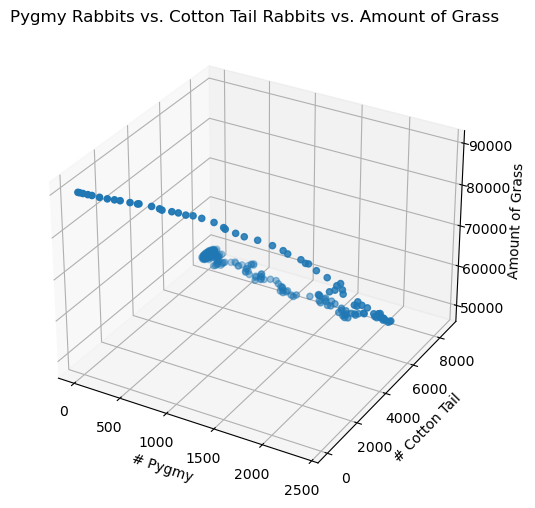
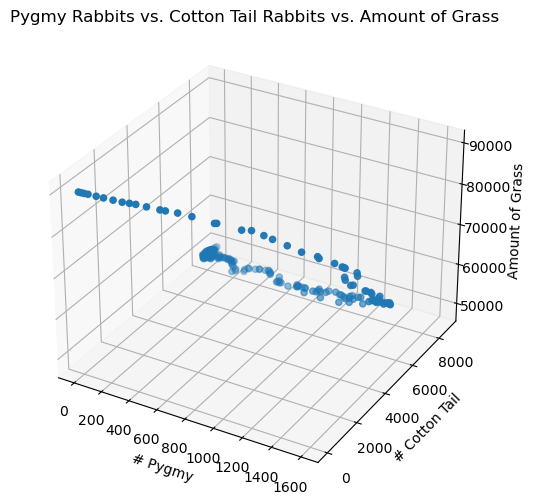
added working color map and user inputted command line arguments

diff --git a/ecological_simulation/rabbit_life_sim.py b/ecological_simulation/rabbit_life_sim.py
@@ -5,17 +5,17 @@ import matplotlib.colors as colors
 import numpy as np
 import copy
 import sys
-from IPython import display
+from argparse import ArgumentParser, ArgumentError
 
 
 # Does the field wrap around on itself when rabbits move?
 WRAP = True
 
 # colors
-WHITE = 0
-GREEN = 1
-BLUE = 2
-RED = 3
+WHITE = 0  # empty space
+GREEN = 1  # grass
+BLUE = 2  # pygmy
+RED = 3  # cottontail
 
 
 class Rabbit:
@@ -47,8 +47,10 @@ class Rabbit:
     def move(self):
         """ Move up, down, left, right randomly """
 
+        # create a list of possible moves in integer set: {-max_hop_distance, ..., max_hop_distance}
         mv_lst = list(range(-self.hop_dist, self.hop_dist + 1))
 
+        # move rabbit
         if WRAP:
             self.x = (self.x + rnd.choice(mv_lst)) % self.size
             self.y = (self.y + rnd.choice(mv_lst)) % self.size
@@ -59,21 +61,21 @@ class Rabbit:
 
 class Pygmy(Rabbit):
 
-    def __init__(self):
-        super().__init__(max_offspring=2)
+    def __init__(self, size=300):
+        super().__init__(max_offspring=2, field_size=size)
 
 
 class CottonTail(Rabbit):
 
-    def __init__(self):
-        super().__init__(max_hop_distance=2, color=RED)
+    def __init__(self, size=300):
+        super().__init__(max_hop_distance=2, color=RED, field_size=size)
 
 
 class Field:
     """ A field is a patch of grass with 0 or more rabbits hopping around
     in search of grass """
 
-    def __init__(self, field_size=300, grass_rate=0.04, num_pygmy=1, num_cotton_tail=1):
+    def __init__(self, field_size=300, grass_rate=0.1, num_pygmy=1, num_cotton_tail=1):
         """ Create a patch of grass with dimensions size x size
         and initially no rabbits """
 
@@ -87,8 +89,9 @@ class Field:
         self.field = np.ones(shape=(self.size, self.size), dtype=int)
 
         # initialize rabbits
-        self.rabbits = [Pygmy() for _ in range(num_pygmy)]
-        self.rabbits += [CottonTail() for _ in range(num_cotton_tail)]
+        self.rabbits = [Pygmy(self.size) for _ in range(num_pygmy)]
+        self.rabbits.extend([CottonTail(self.size)
+                            for _ in range(num_cotton_tail)])
 
         # keep track of number of rabbits per species and amount of grass
         self.npygmy = [num_pygmy]
@@ -96,24 +99,30 @@ class Field:
         self.ngrass = [self.size * self.size]
 
         # create colormap
-        cmap = colors.ListedColormap(["red", "blue", "white", "green"])
-        # cmap = colors.ListedColormap(["white", "green", "blue", "red"])
+        cmap = colors.ListedColormap(["white", "green", "blue", "red"])
 
-        # plot of field to use for animation
-        # plot_field = copy.deepcopy(self.field)
-        # for i in range(len(plot_field)):
-        #     for j in range(len(plot_field[i])):
-        #         if plot_field[i][j] ==
+        # set field to plot
+        self._update_plot()
 
+        # set image to animate
         self.fig = plt.figure(figsize=(5, 5))
-        self.im = plt.imshow(self.field, cmap=cmap,
-                             aspect='auto', vmin=0, vmax=1)
+        self.im = plt.imshow(self.plot, cmap=cmap,
+                             aspect='auto', vmin=0, vmax=3)
+
+    def _update_plot(self):
+        """ Update field to plot """
+
+        # pygmy and cottontail arrays in dict
+        rabbit_dict = self._get_rabbits()
+
+        # plot of field to use for field animation
+        self.plot = np.maximum.reduce(
+            [self.field, rabbit_dict['pygmy'], rabbit_dict['cotton']])
 
     def _move(self):
         """ Rabbits move """
         for r in self.rabbits:
             r.move()
-            # self.field[r.x, r.y] = r.color
 
     def _eat(self):
         """ Rabbits eat (if they find grass where they are) """
@@ -146,10 +155,19 @@ class Field:
         self.field = np.maximum(self.field, growloc)
 
     def _get_rabbits(self):
-        rabbits = np.zeros(shape=(self.size, self.size), dtype=int)
+        """ Get arrays of pygmy and cottontail rabbits to use in plotting """
+
+        # initialize 2 arrays to keep track of both rabbit populations
+        pygmy = np.zeros(shape=(self.size, self.size), dtype=int)
+        cotton = np.zeros(shape=(self.size, self.size), dtype=int)
+
+        # add rabbits' colors (2 or 3) to each numpy array at their position
         for r in self.rabbits:
-            rabbits[r.x, r.y] = 1
-        return rabbits
+            if r.color == 2:
+                pygmy[r.x, r.y] = r.color
+            elif r.color == 3:
+                cotton[r.x, r.y] = r.color
+        return {'pygmy': pygmy, 'cotton': cotton}
 
     def _num_rabbits(self):
         """ How many rabbits are there in the field ? """
@@ -158,11 +176,14 @@ class Field:
         return rabbit_list.count(2), rabbit_list.count(3)
 
     def _amount_of_grass(self):
+        """ calculate how much grass is currently on field """
+
         num_grass = np.sum(self.field[self.field == 1])
         return num_grass
 
     def _generation(self):
         """ Run one generation of rabbits """
+
         self._move()
         self._eat()
         self._survive()
@@ -176,24 +197,32 @@ class Field:
         for _ in range(speed):
             self._generation()
 
+        # update plot of field
+        self._update_plot()
+
         # Update the frame
-        self.im.set_array(self.field)
+        self.im.set_array(self.plot)
         plt.title("generation = " + str((i + 1) * speed))
         return self.im,
 
     def run(self, generations=5000, speed=1):
         """ Run the simulation. Speed denotes how may generations run between successive frames """
+
         anim = animation.FuncAnimation(self.fig, self._animate, fargs=(
             speed, ), frames=generations // speed, interval=1, repeat=False)
         plt.show()
 
     @staticmethod
     def _update(num, x, y, z, line1, line2):
+        """ Update array by one iteration for building line plot animation (history) """
+
         line1.set_data(x[:num], y[:num])
         line2.set_data(x[:num], z[:num])
         return [line1, line2]
 
     def history(self, speed=1, marker='.'):
+        """ Animated line plot of Pygmy and CottonTail populations over generations """
+
         # initialize plot
         fig, ax = plt.subplots()
 
@@ -216,10 +245,46 @@ class Field:
         plt.ylabel("# Rabbits")
         plt.title("Pygmy Rabbits vs. Cotton Tail Rabbits per Generation")
         plt.savefig("pyg_vs_cot_hist.png", bbox_inches='tight')
-        ani.save("pyg_vs_cot_hist.gif", dpi=300, writer=animation.PillowWriter(fps=25))
+        ani.save("pyg_vs_cot_hist.gif", dpi=300,
+                 writer=animation.PillowWriter(fps=25))
         plt.show()
 
-    def history2(self, marker='o'):
+    @staticmethod
+    def _update2(num, x, y, line):
+        """ Update array by one iteration for building line plot animation (history2) """
+
+        line.set_data(x[:num], y[:num])
+        return [line]
+
+    def history2(self, speed=1, marker='.'):
+        """ Animated line plot of Pygmy vs. CottonTail populations """
+
+        # initialize plot
+        fig, ax = plt.subplots()
+
+        # set lists to plot
+        pygmy = np.array(self.npygmy[:])
+        cotton = np.array(self.ncotton[:])
+
+        # plot figure
+        line, = ax.plot(pygmy, cotton, color="purple", marker=marker)
+
+        ani = animation.FuncAnimation(fig, self._update2, len(pygmy), fargs=[
+                                      pygmy, cotton, line], interval=speed, repeat=False, blit=False)
+
+        # configure plot and display
+        plt.grid()
+        plt.xlabel("# Pygmy Rabbits")
+        plt.ylabel("# CottonTail Rabbits")
+        plt.title("Pygmy Rabbits Population vs. Cotton Tail Rabbits Population")
+        plt.savefig("pyg_vs_cot_hist2.png", bbox_inches='tight')
+        ani.save("pyg_vs_cot_hist2.gif", dpi=300,
+                 writer=animation.PillowWriter(fps=25))
+        plt.show()
+
+    def history3(self, marker='o'):
+        """ 3D plot of Pygmy vs. CottonTail vs. Grass populations """
+
         # initialize 3D plot
         fig = plt.figure(figsize=(6, 6))
         ax = fig.add_subplot(projection='3d')
@@ -243,23 +308,37 @@ class Field:
 
 
 def main():
+    # parse user defined parameters from command line
+    # $ python rabbit_life_sim.py <field size> <initial pygmy> <initial cottontail> <sim speed> --gens <num generations> --grass <grass growth rate>
+    parser = ArgumentParser()
+    parser.add_argument('size', type=int, help='field size')
+    parser.add_argument('pygmy', type=int, help='intitial pygmy population')
+    parser.add_argument('cotton', type=int,
+                        help='initial cottontail population')
+    parser.add_argument('speed', type=int, help='simulation speed')
+    parser.add_argument('--gens', type=int, help='number of generations')
+    parser.add_argument('--grass', type=float, help='grass growth rate')
 
-    if len(sys.argv) != 7:
-
-        # run ex: python rabbit_life_sim.py 300 0.04 10 10 1000 10
-        print("USAGE: $ python rabbit_life_sim.py <field size> <grass growth rate> <initial pygmy> <initial cottontail> <num generations> <sim speed>")
-        sys.exit()
+    args = parser.parse_args()
 
     # Create the ecosystem
-    field = Field(field_size=int(sys.argv[1]), grass_rate=float(
-        sys.argv[2]), num_pygmy=int(sys.argv[3]), num_cotton_tail=int(sys.argv[4]))
+    if args.grass is None:
+        field = Field(field_size=args.size, num_pygmy=args.pygmy,
+                      num_cotton_tail=args.cotton)
+    else:
+        field = Field(field_size=args.size, grass_rate=args.grass,
+                      num_pygmy=args.pygmy, num_cotton_tail=args.cotton)
 
     # Run the ecosystem
-    field.run(generations=int(sys.argv[5]), speed=int(sys.argv[6]))
+    if args.gens is None:
+        field.run(speed=args.speed)
+    else:
+        field.run(generations=args.gens, speed=args.speed)
 
     # Plot history
-    field.history(speed=int(sys.argv[6]))
-    field.history2()
+    field.history(speed=args.speed)
+    field.history2(speed=args.speed)
+    field.history3()
 
 
 if __name__ == '__main__':
